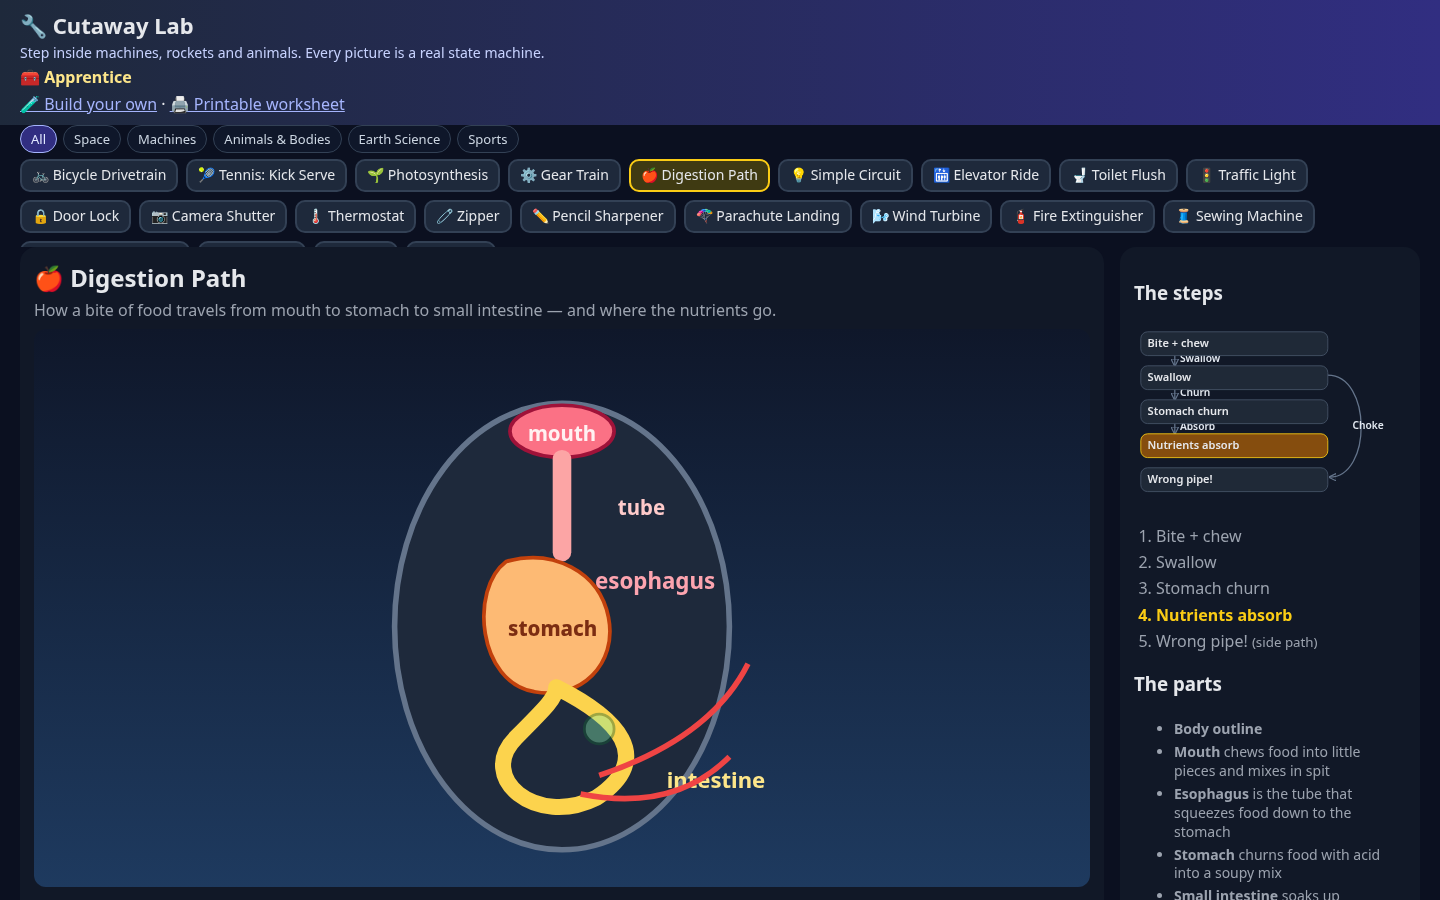
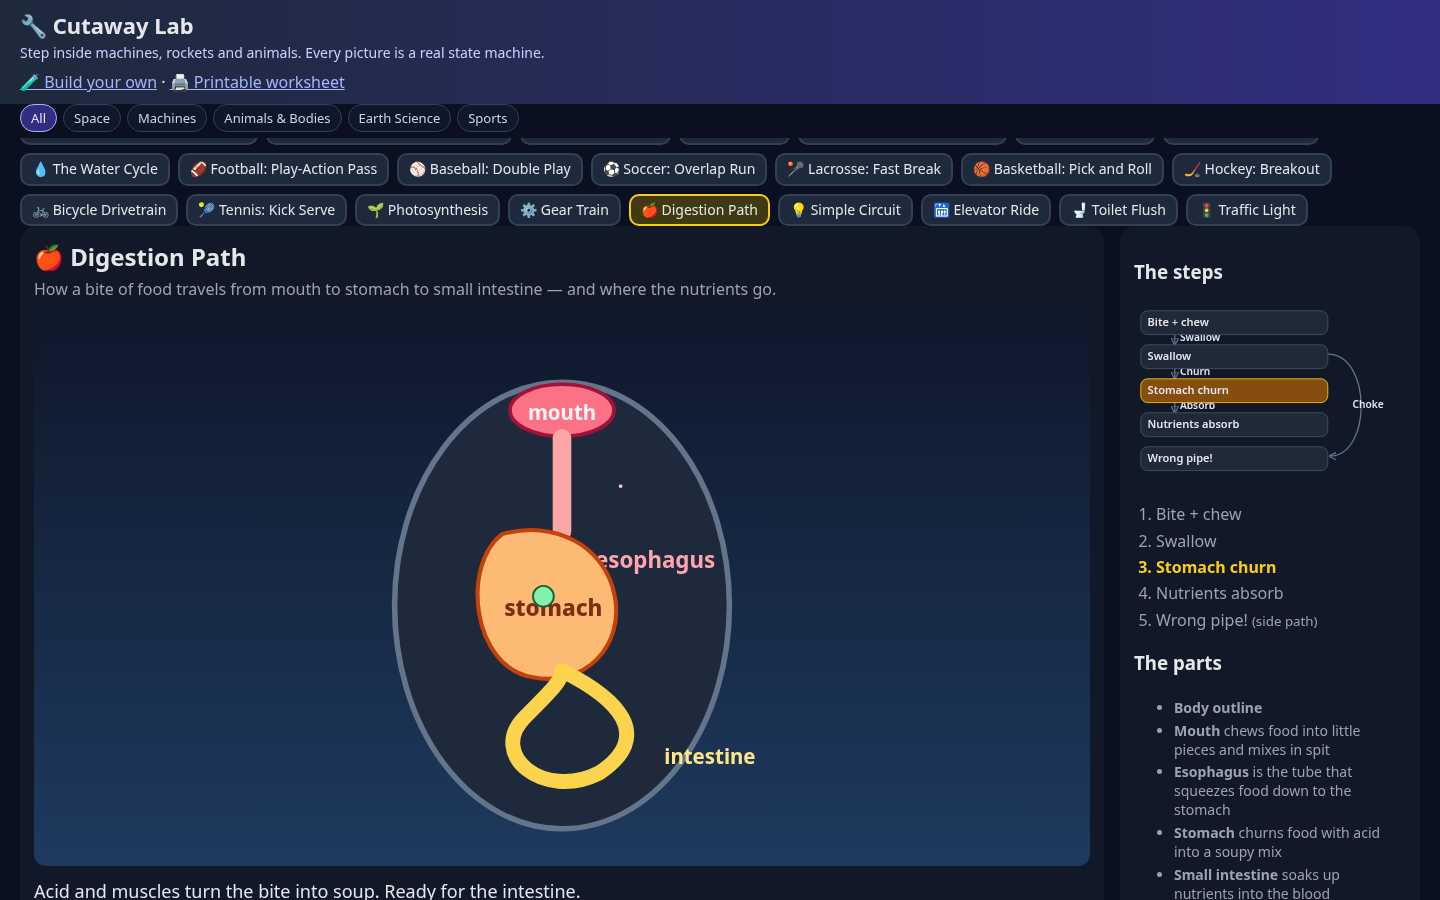
v1.0: digest esophagus-only caption; clock escape+weight labels
- Dropped redundant 'tube' SVG text
- Escape near the wheel; weight labeled on the falling mass

diff --git a/machines/digest.js b/machines/digest.js
@@ -10,7 +10,7 @@ export default {
     { id: 'lblEso', label: 'Esophagus label',
       svg: '<text x="250" y="140" text-anchor="middle" fill="#fda4af" font-size="12" font-weight="700">esophagus</text>' },
     { id: 'esophagus', label: 'Esophagus', job: 'is the tube that squeezes food down to the stomach',
-      svg: '<path d="M200 70 V120" stroke="#fca5a5" stroke-width="10" stroke-linecap="round"/><text x="230" y="100" fill="#fecaca" font-size="11" font-weight="700">tube</text>', explode: [40, -10] },
+      svg: '<path d="M200 70 V120" stroke="#fca5a5" stroke-width="10" stroke-linecap="round"/><text x="230" y="100" fill="#fecaca" font-size="11" font-weight="700">·</text>', explode: [40, -10] },
     { id: 'stomach', label: 'Stomach', job: 'churns food with acid into a soupy mix',
       svg: '<path d="M170 125 C150 140 155 190 185 195 C210 200 230 180 225 155 C220 130 195 118 170 125Z" fill="#fdba74" stroke="#c2410c" stroke-width="2"/><text x="195" y="165" text-anchor="middle" fill="#7c2d12" font-size="11" font-weight="800">stomach</text>', explode: [-50, 10] },
     { id: 'intestine', label: 'Small intestine', job: 'soaks up nutrients into the blood',

diff --git a/machines/clock.js b/machines/clock.js
@@ -12,8 +12,10 @@ export default {
     { id: 'lblPendulum', label: 'Pendulum label',
       svg: '<text x="200" y="280" text-anchor="middle" fill="#fde68a" font-size="13" font-weight="700">pendulum</text>' },
     { id: 'lblEscape', label: 'Escape label',
-      svg: '<text x="280" y="120" text-anchor="middle" fill="#93c5fd" font-size="12" font-weight="700">escape</text>' },
+      svg: '<text x="260" y="95" text-anchor="middle" fill="#93c5fd" font-size="12" font-weight="700">escape</text>' },
     { id: 'weight', label: 'Weight', job: 'gives the clock its energy by slowly falling', svg: '<rect x="245" y="120" width="16" height="40" rx="3" fill="#a3a3a3"/><line x1="253" y1="40" x2="253" y2="120" stroke="#ddd"/>', explode: [50, 30] },
+    { id: 'lblWeight', label: 'Weight label',
+      svg: '<text x="310" y="220" text-anchor="middle" fill="#cbd5e1" font-size="12" font-weight="700">weight</text>' },
   ],
   states: {
     wound: { label: 'Wound up', caption: 'Someone winds the clock, lifting the heavy weight to the top.', on: { RELEASE: 'tickLeft', LEAVE: 'stopped' } },
